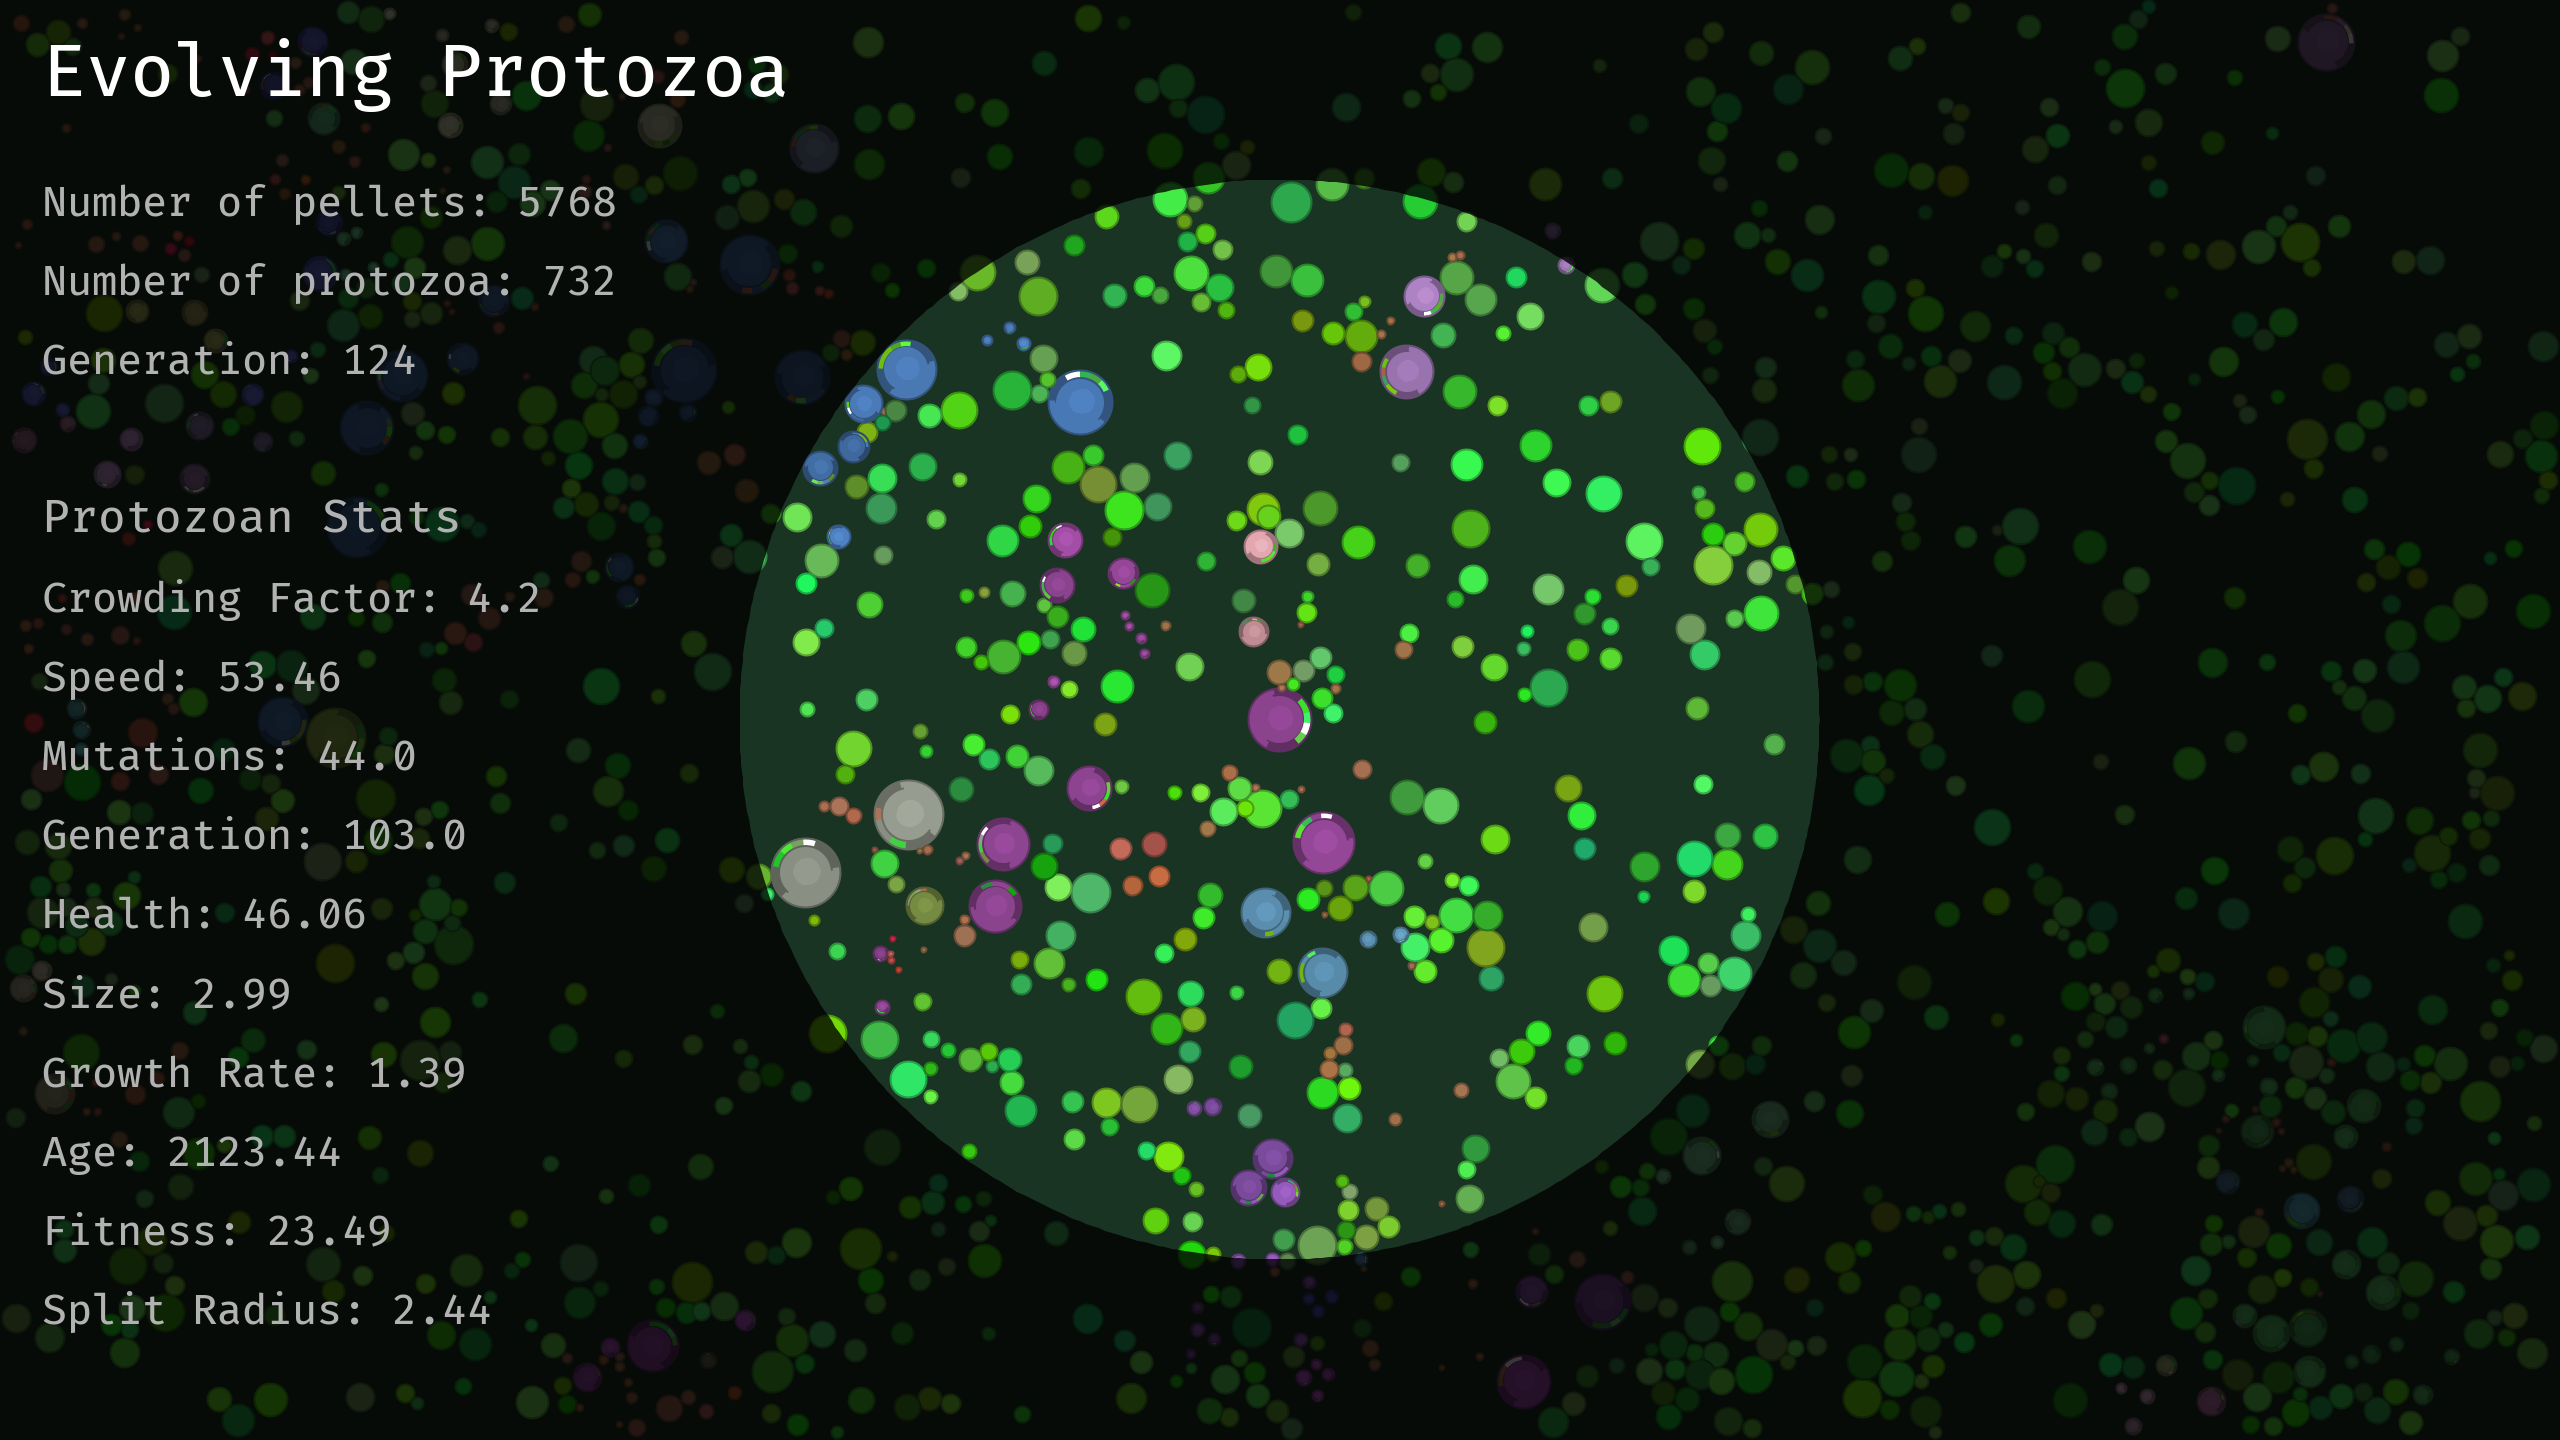
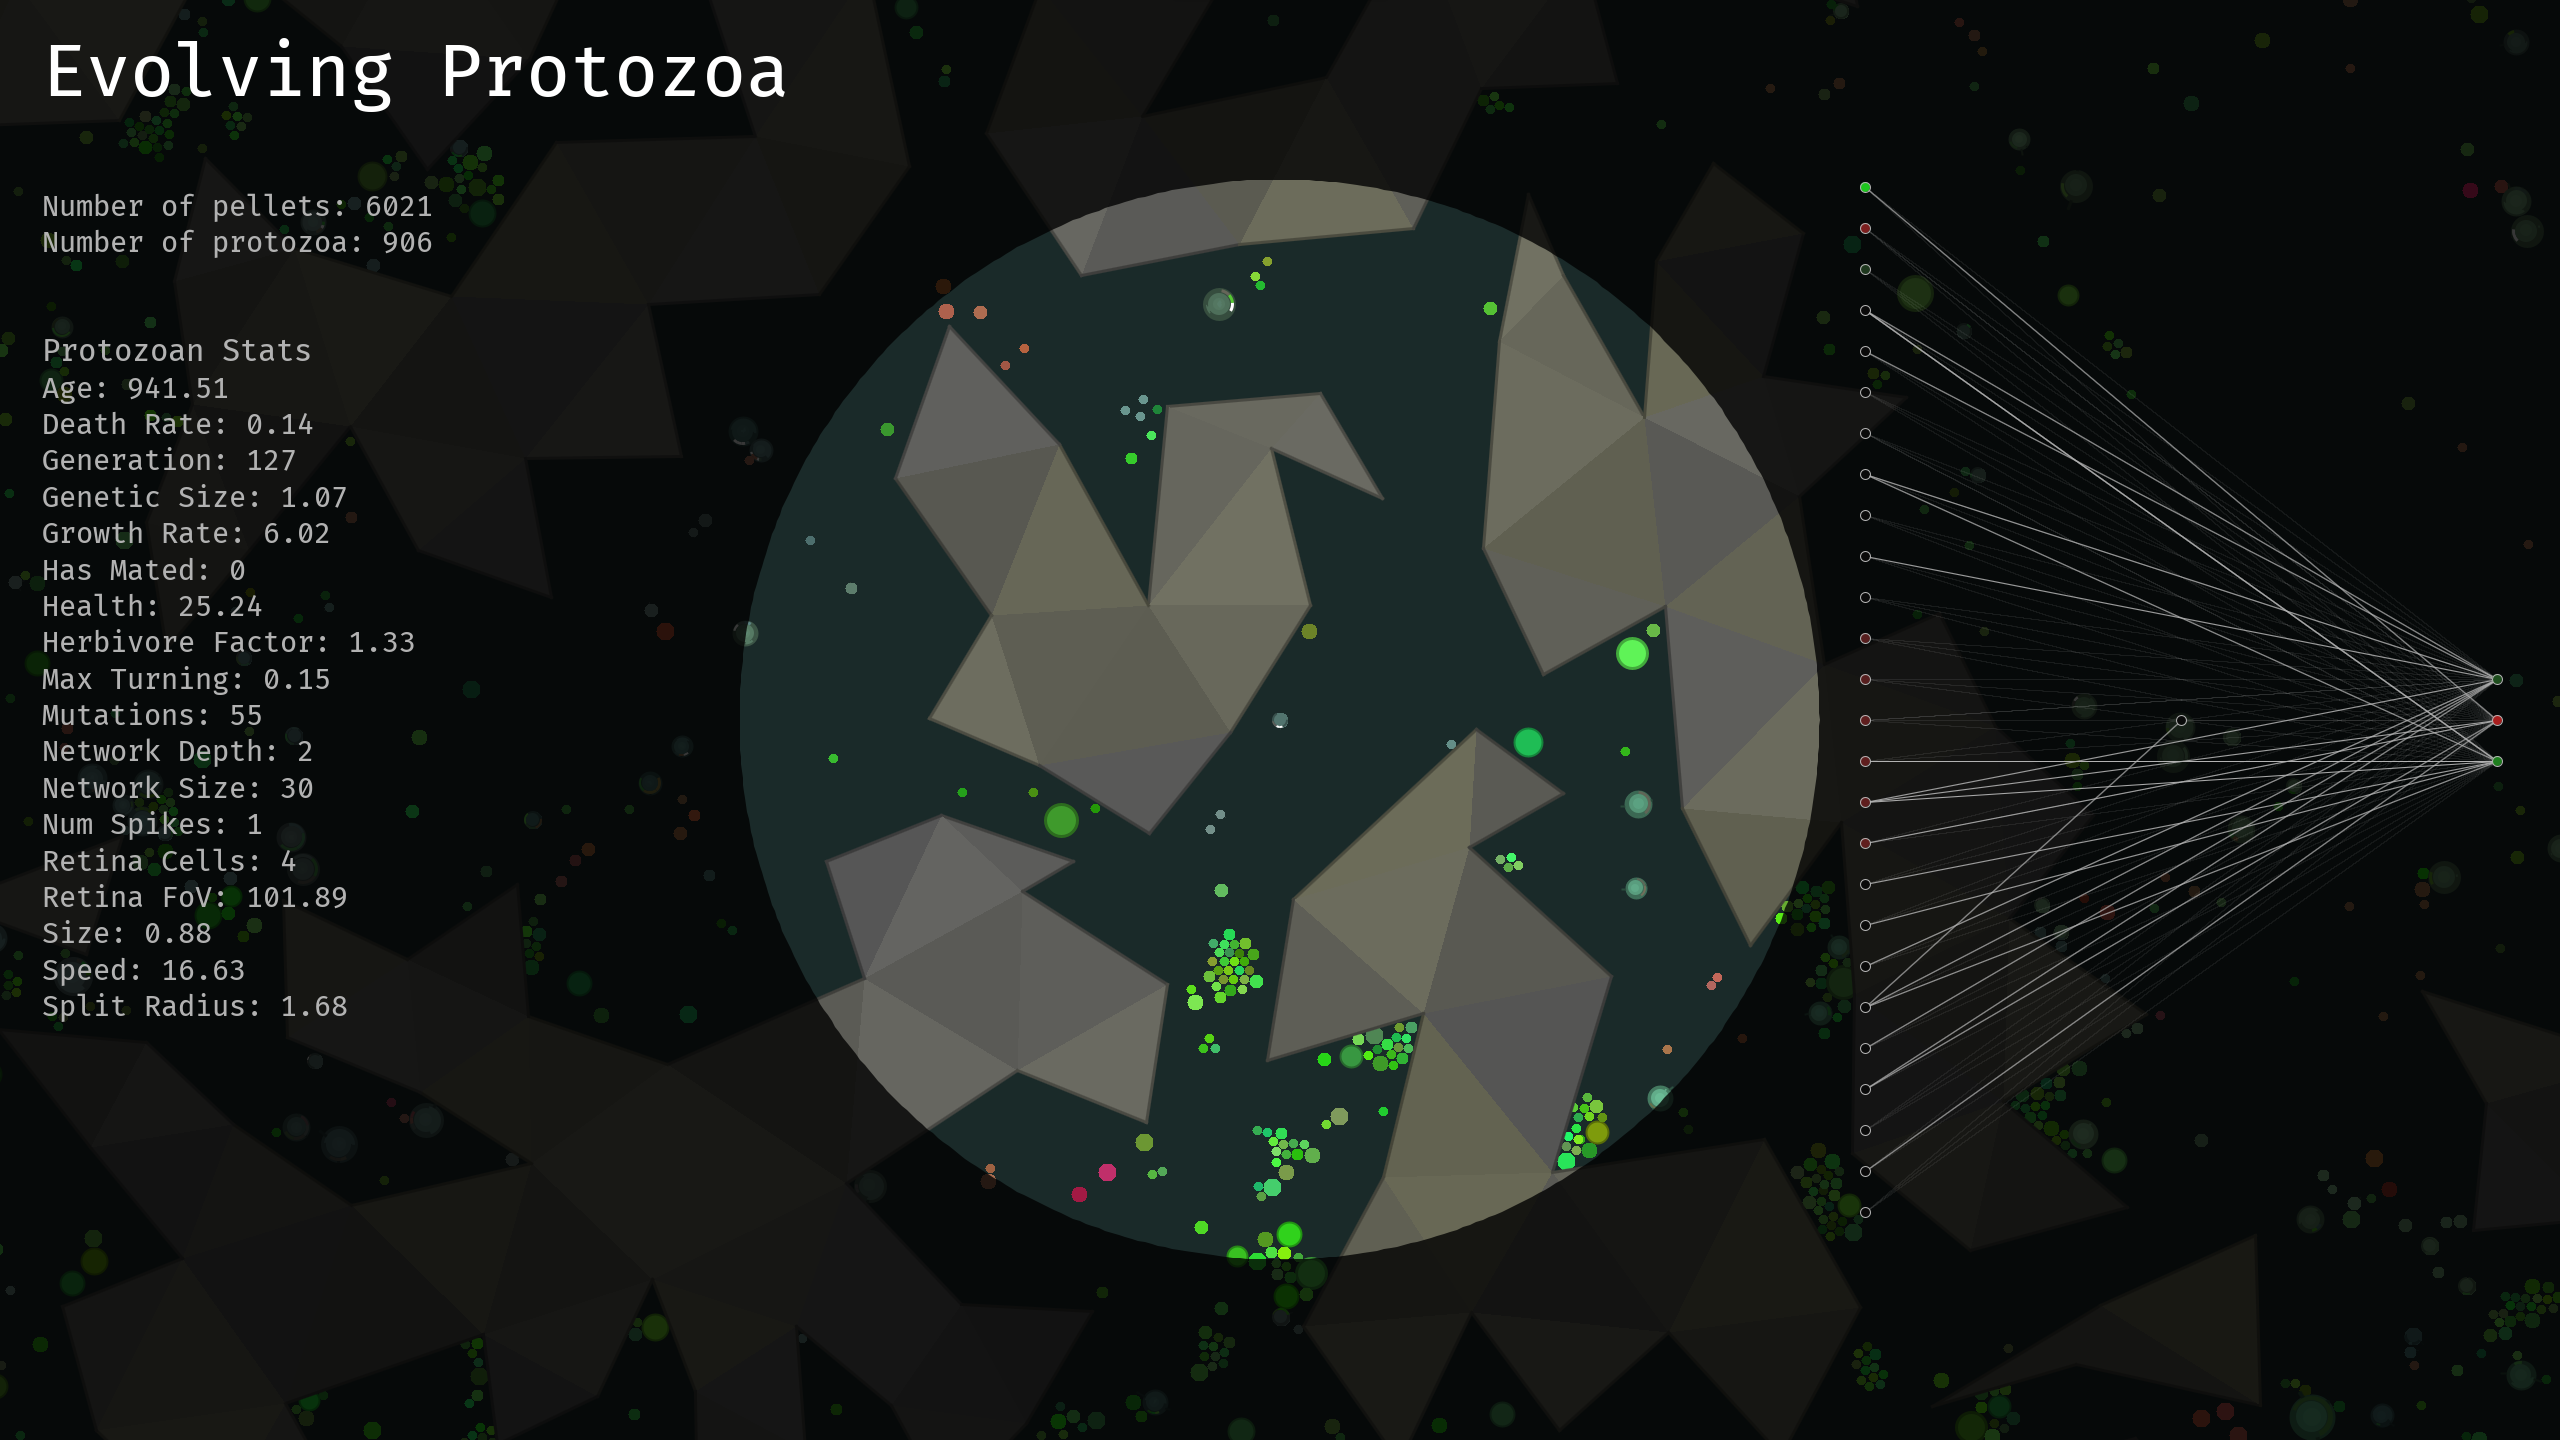
small ui change

diff --git a/src/main/java/core/Application.java b/src/main/java/core/Application.java
@@ -15,7 +15,7 @@ public class Application
 	
 	public static void main(String[] args)
 	{
-		simulation = new Simulation(Settings.simulationSeed);
+		simulation = new Simulation(Settings.simulationSeed, "hypnos-seaking-quam");
 //		simulation = new Simulation(Settings.simulationSeed, "chaos-arbok-eius");
 //		simulation = new Simulation(Settings.simulationSeed, "aion-exeggutor-non");
 		try {

diff --git a/src/main/java/core/UI.java b/src/main/java/core/UI.java
@@ -40,7 +40,7 @@ public class UI
 		title.setColor(Color.WHITE);
 		
 		info = new ArrayList<>();
-		infoTextSize = window.getHeight() / 45;
+		infoTextSize = window.getHeight() / 50;
 
 		TextObject pelletText = new TextObject("Number of pellets: ", infoTextSize);
 		pelletText.setColor(Color.WHITE.darker());
